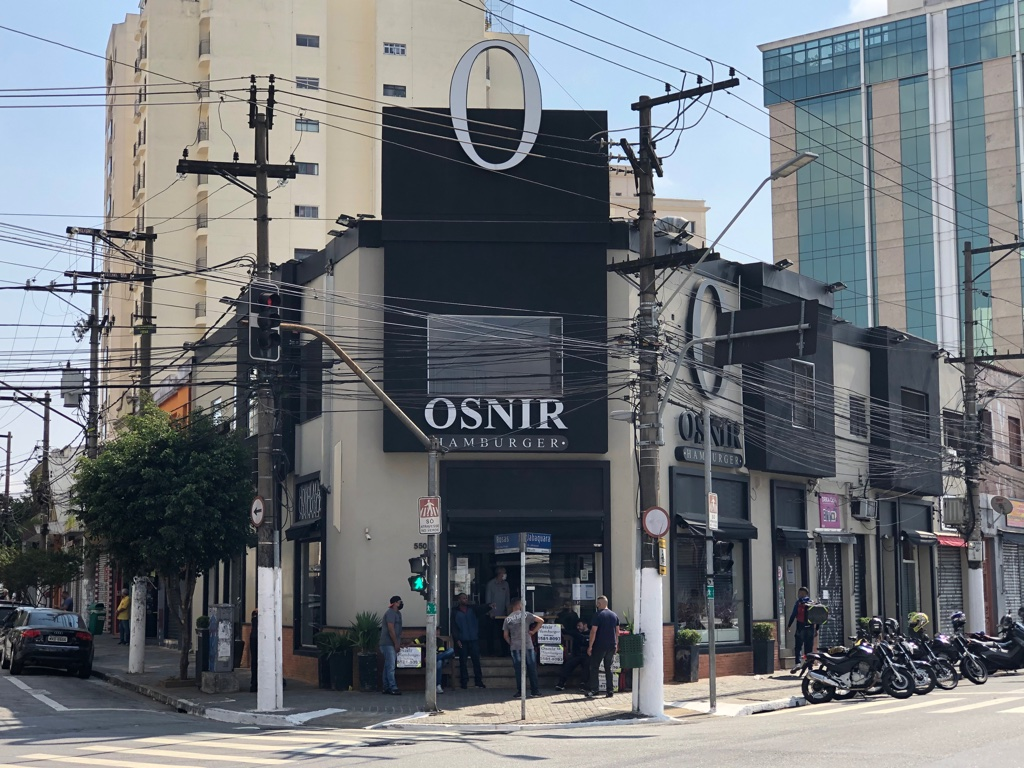
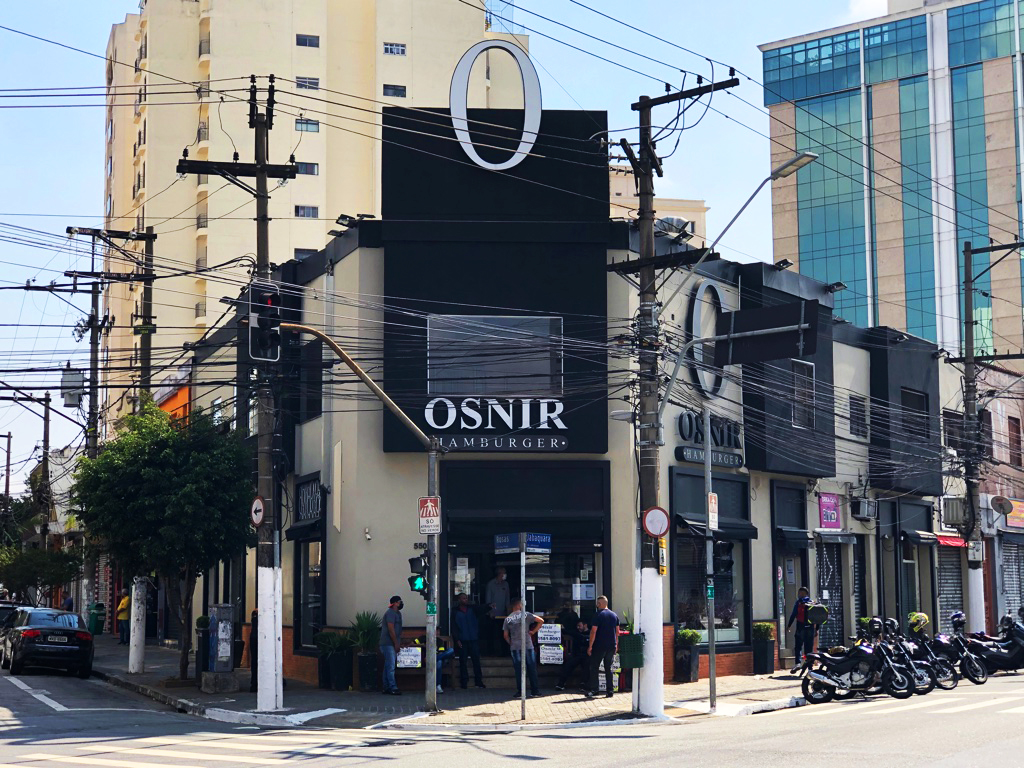
Fotos slider photoshop

diff --git a/style.css b/style.css
@@ -135,11 +135,11 @@ nav button {
 }
 
 .projeto-1 {
-    background: url('assets/img/slider/projeto-1.JPG');
+    background: url('assets/img/slider/projeto-1.jpg');
 }
 
 .projeto-2 {
-    background: url('assets/img/slider/projeto-2.JPG');
+    background: url('assets/img/slider/projeto-2.jpg');
 }
 
 .projeto-3 {
